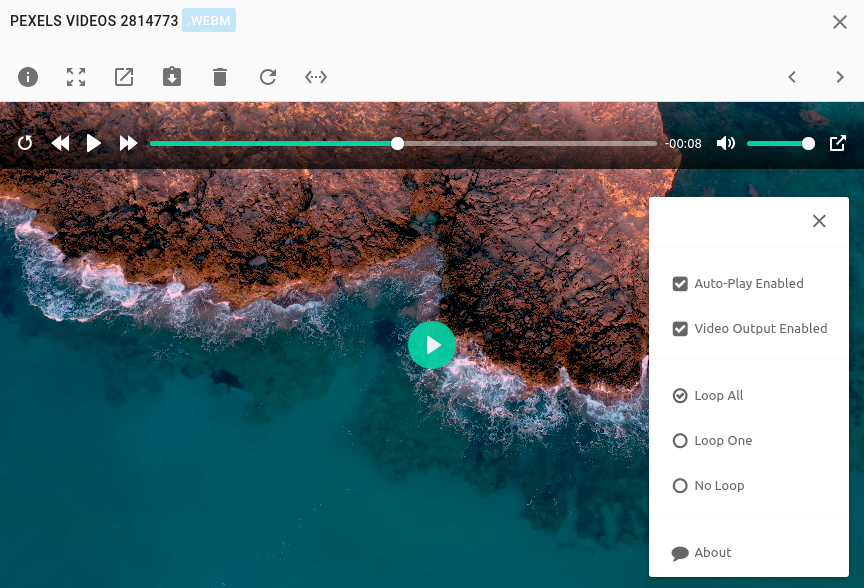
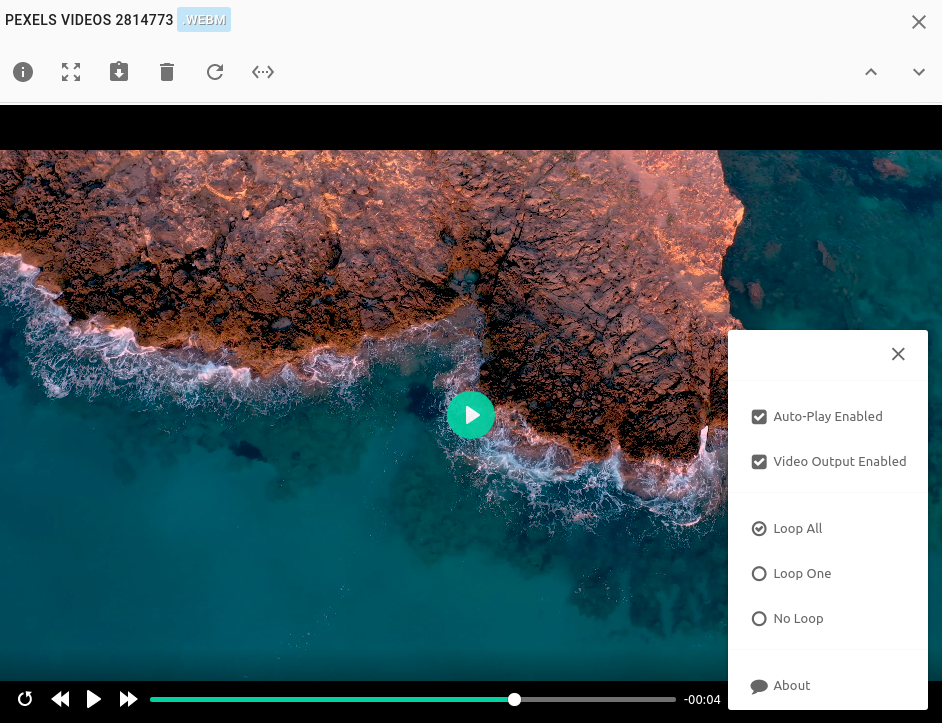
updating the docs and some images

diff --git a/sidebars.js b/sidebars.js
@@ -33,11 +33,6 @@ module.exports = {
         label: "Chrome Extension",
         href: "/installation#installing-the-chrome-browser-extension",
       },
-      // {
-      //   type: "link",
-      //   label: "TagSpaces Pro",
-      //   href: "/installation#installing-tagspaces-pro",
-      // },
       {
         type: "link",
         label: "Portable mode",
@@ -50,8 +45,8 @@ module.exports = {
       "ui/locations",
       {
         type: "link",
-        label: "S3 Locations",
-        href: "/ui/locations/#cloud-locations",
+        label: "Object storage Locations (S3)",
+        href: "/ui/locations/#object-storage-locations",
       },
       "ui/taglibrary",
       // "ui/userinterface#browsing-area)
@@ -99,12 +94,12 @@ module.exports = {
       {
         type: "link",
         label: "Custom timestamp tagging",
-        href: "/tagging/#custom-timestamp-tagging-",
+        href: "/tagging/#custom-timestamp-tagging",
       },
       {
         type: "link",
         label: "Geo-tagging",
-        href: "/tagging/#geo-tagging-",
+        href: "/tagging/#geo-tagging",
       },
     ],
     "Search Functionality": [
@@ -142,9 +137,8 @@ module.exports = {
       "perspectives/mapique",
       "perspectives/kanban",
       "perspectives/folderviz",
-      // "perspectives/treeviz",
     ],
-    "View and Print Files": [
+    "Preview and Print Files": [
       "viewing-files",
       {
         type: "link",
@@ -153,7 +147,7 @@ module.exports = {
       },
       {
         type: "link",
-        label: "File Printing",
+        label: "Print files",
         href: "/viewing-files/#printing-files",
       },
       "extensions/media-player",
@@ -186,11 +180,6 @@ module.exports = {
     "Share and Link Files": ["sharing", "linking"],
     Settings: [
       "ui/settings",
-      // {
-      //   type: "link",
-      //   label: "Access the settings",
-      //   href: "/ui/settings/",
-      // },
       {
         type: "link",
         label: "General",
@@ -214,11 +203,6 @@ module.exports = {
     ],
     "Advanced Functionalities": [
       "annotations",
-      // {
-      //   type: "link",
-      //   label: "File & Folder Descriptions",
-      //   href: "/annotations",
-      // },
       {
         type: "link",
         label: "Custom Folder Color",

diff --git a/docs/ui/locations.md b/docs/ui/locations.md
@@ -17,7 +17,7 @@ Clicking second time on a location name, will trigger the loading of the sub dir
 
 ![Location manager](/media/location-manager.png)
 
-The location with the cloud icon (6) in front of its name is located in the AWS S3 compatible cloud storage. See [cloud locations](#cloud-locations) for more details.
+The location with the cloud icon (6) in front of its name is located in the AWS S3 compatible cloud storage. See [object storage locations](#object-storage-locations) for more details.
 
 The location with the light green background color (4) is the **currently opened location**. The 3-dot button located on the most right part of every location in the location manager will open the **context menu** for this location. This menu contains the following menu entries:
 
@@ -62,11 +62,11 @@ The extended dialog will have in addition the following properties:
 - _Switch to manual index creation with persisted search index_ <ProFeature /> - disables the automatic indexing of a location on its opening. The application will try to open a previously created index located in a file _tsi.json_ from the _.ts_ folder of the location. This is useful on locations with many files, where the content does not change very often.
 - _Open this location in read-only mode_ <ProFeature /> - switches the interface of TagSpaces to read-only mode
 
-## Cloud Locations
+## Object Storage Locations
 
 <ProFeature />
 
-These location are pointing to AWS S3 compatible stores (also known as buckets) located in the Internet.
+With this feature TagSpaces Pro can support object storage offered by different Cloud providers as locations. So you can connect the so called buckets from [AWS S3](https://aws.amazon.com/s3/), [Wasabi](https://www.wasabi.com/) or [Minio](https://min.io/) infrastructure. By doing so you get a fully functional file organizer, browser and navigator for this bucket, directly in TagSpaces. You do not have to download or sync the files from there in order to preview, edit or annotate them.
 
 ![Edit properties of a cloud location](/media/edit-cloud-location-dialog.png)
 
@@ -83,10 +83,6 @@ In addition to the regular locations, the cloud locations have the following pro
 :::
 
 In our tutorial section you can find a [complete manual](/tutorials/s3-bucket-locations.md) on how to create a new AWS S3 bucket and connect it as location in TagSpaces.
-
-## Object storages as locations
-
-With this feature TagSpaces PRO is going into direction of supporting the Cloud as file storage. In general it enables you to creating a location pointing to a remote object storages or buckets on [AWS S3](https://aws.amazon.com/s3/), [DigitalOcean Spaces](https://www.digitalocean.com/products/spaces/) or [Minio](https://min.io/) infrastructure. By doing this you get a fully functional file organizer, browser and navigator for this bucket, directly in TagSpaces. You don't have to download separately and eventually to upload them back in order to preview, edit or annotate them.
 
 You can recognize object storage location by the cloud icon in front of their name, as seen in the next screenshot.
 
@@ -126,9 +122,9 @@ If your bucket contains many files and the initial opening with indexing takes a
     showCaption
   />
 
-## Advanced Features
+## Advanced Location Features
 
-### Monitor for changes in locations
+### Monitor for changes
 
 This features is useful, when you have locations placed on a network drive or pointing to a folder synced with for example Dropbox, where changes to these folders happens in background while TagSpaces is running. This can happen if you work collaboratively with someone on a network or your Dropbox syncs files from other devices. In such cases TagSpaces monitors the folder pointed by the location with all its sub-folders for changes, such as **file creations**, **deletions** or **renames** and reflects these changes in the user interface of the app.
 
@@ -170,13 +166,7 @@ In the content menu of every tag group in the PRO version, there is an entry cal
     showCaption
   />
 
-### Custom location IDs
-
-Work in progress
-
-### Export and Import location's configuration
-
-<ProFeature />
+### Export and import location configuration
 
 <VideoYT
 youtubeId="LmjUM1BS-wQ"
@@ -184,3 +174,7 @@ title="Using file and folder linking functionality in TagSpaces"
 posterUrl="/media/videoposters/import-export-locations.jpg"
 height={550}
 />
+
+### Custom location IDs
+
+Work in progress

diff --git a/docs/ui/userinterface.md b/docs/ui/userinterface.md
@@ -40,7 +40,7 @@ The file browsing area normally takes up he majority of the user interface. This
 In the top left corner of the browsing area is placed a button with a briefcase icon **(1)** which open a dropdown showing a list of all [locations](/ui/locations.md). From this dropdown you can quickly switch to another location.
 
 :::tip
-<ProFeature /> If you are currently using a cloud based location, the the icon of the button for changing the location **(1)** will be a cloud, in other cases the icon will be the briefcase.
+<ProFeature /> If you are currently using a cloud based location, the icon of the button for changing the location (1) will be a cloud, in other cases the icon will be the briefcase.
 :::
 
 The number above **(2)** shows the count of the files and folders in the current folder. If the file browsing area shows search results, then this number will represent the count of the found items.
@@ -51,7 +51,6 @@ The area above number **(3)** shows the name of the current folder, its parent f
 
 Clicking on the name of the current folder or on the three dot icon above **(4)** will open the context menu for the current directory, which contains the following menu items:
 
-- **Open Parent Directory** - Open the parent folder in the browsing area, only if the parent folder is located inside the current location
 - **Reload Directory** - Reloads the content of the current folder
 - **Rename Directory** - Opens the folder rename dialog
 - **Delete Directory** - Open a dialog where you can confirm the deletion of the folder
@@ -59,8 +58,12 @@ Clicking on the name of the current folder or on the three dot icon above **(4)*
 - **New Subdirectory** - Opens the folder create dialog, where you can enter the name of the new sub folder
 - **New File / Note** - Open the dialog for [creating new](/editing-files.md#creating-files) files / notes
 - **Add Existing File** - Opens a file choose where you can select a file from your local files system, which will be added to your current folder in TagSpaces.
-- **Extract Content** - Starts a data extraction process, where you can retrieve some additional meta information from the files in the current folder.
-- **Directory Properties** - Opens the folder properties area
+- **Import macOS tags** - This menu item is visible only on macOS, selecting it will start the attaching of native macOS tags as TagSpaces tags.
+- **Default Perspective** - will open the current folder in the default [Grid/List](/perspectives/grid) perspective
+- **Gallery Perspective** - will open the current folder in the [Gallery](/perspectives/gallery) perspective
+- **Mapique Perspective** - will open the current folder in the [Mapique](/perspectives/mapique) perspective
+- **Kanban Perspective** - will open the current folder in the [Kanban](/perspectives/kanban) perspective
+- **Directory Properties** - Opens the [properties](/ui/userinterface#folder-properties-area) of the current folder
 
 ## Preview area
 

diff --git a/docs/intro.md b/docs/intro.md
@@ -1,6 +1,6 @@
 ---
 slug: /
-title: TagSpaces Intro
+title: What is TagSpaces
 ---
 
 Welcome to the documentation of the TagSpaces products.
@@ -56,17 +56,19 @@ TagSpaces is an open source, cross-platform, no backend, no login, file manager,
 
 ## Videos
 
-The short introductory video below shows TagSpaces in action:
+This short introductory video shows TagSpaces in action:
 
-<iframe width="100%" height="500" src="https://www.youtube-nocookie.com/embed/KUO1zvavYMw?rel=0" frameBorder="0" allowFullScreen></iframe>
+<iframe width="100%" height="500" src="https://www.youtube-nocookie.com/embed/Xjwxq4c0RBQ?rel=0" frameBorder="0" allowFullScreen></iframe>
 
-Check out the [TagSpaces YouTube channel](https://www.youtube.com/channel/UCzfSaeg-7mpt96UI97zwbfQ) for more TagSpaces related videos.
+### Youtube channel
+
+We have [YouTube channel](https://www.youtube.com/channel/UCzfSaeg-7mpt96UI97zwbfQ) where publish videos related to the application.
 
 ## Technology Stack
 
-Frontend based on:
+Front-end of the application is based on:
 
-- JavaScript / HTML / CSS
+- JavaScript / Typescript / HTML / CSS
 - React / Redux / [Material UI](https://material-ui.com/)
 
 Native APIs e.g. for file access are based accordingly:
@@ -75,6 +77,8 @@ Native APIs e.g. for file access are based accordingly:
 - Mobile versions for Android based on [Cordova](https://cordova.apache.org/)
 - Web versions for managing files in object storages based on [AWS SDK for JavaScript](https://aws.amazon.com/sdk-for-javascript/)
 
+---
+
 :::caution
-This documentation is a <b>work in progress</b>.
+This documentation is a **work in progress**.
 :::

diff --git a/docs/editing-files.md b/docs/editing-files.md
@@ -1,6 +1,6 @@
 # Edit Files
 
-Besides opening and viewing files, TagSpaces can also edit specific file formats. Just like [File Browser Perspectives](browsing-files.md/#perspectives-overview), and [File Preview extensions](viewing-files.md/#file-previewing), the different types of **File Editors** are also **modular extensions**, making TagSpaces' file editing capabilities extendable. Currently three editor extensions ship bundled with the application:
+Besides opening and viewing files, TagSpaces can also edit specific file formats. Just like [File Browser Perspectives](browsing-files.md/#perspectives-overview), and [File Preview extensions](viewing-files.md/), the different types of **File Editors** are also **modular extensions**, making TagSpaces' file editing capabilities extendable. Currently three editor extensions ship bundled with the application:
 
 - [**HTML Editor**](/extensions/html-editor.md) - `HTML` files serve a specific purpose in TagSpaces. They are treated as RichText documents, that can not only be previewed, but visually edited in a full-featured **WYSIWYG editor**.
 

diff --git a/docs/tagging.md b/docs/tagging.md
@@ -167,6 +167,12 @@ Geo Tagging can be use to add geo coordinates as a tag to any kind of files. It 
 
 <!-- The geo tag is a special kind of smart tag, available in TaSpaces **PRO**, that allows tagging files with precise geolocation coordinates. When You drag the tag "geo" on a file, the **Edit tag** popup window with the Geo Location tab will open, showing a map from OpenStreetmap. You can drop a pin anywhere, and move it around, it automatically becomes a tag in the format of `latitude+longitude`, e.g. `47.2792290+18.9843750` This tag will then be applied to the file and treated as a geo-smarttag by TagSpaces -->
 
+<br />
+<br />
+In geo tagging dialog you can enter the latitude and longitude directly without the need of the map. To enable this you have to click on the advanced button in the dialog as shown in the following screenshot.
+
+![Enter latitude and longitude as geo tags](/media/geo-tagging-lat-lon.png)
+
 ### Editing smart tags
 
 <ProFeature />

diff --git a/docs/annotations.md b/docs/annotations.md
@@ -5,6 +5,7 @@ title: Annotating files and folders
 import { ProFeature, CenteredImage } from '@site/src/components/CommonBlocks';
 
 <ProFeature />
+
 In addition to the tagging, in the TagSpaces PRO you have the ability to annotate every file or folder with a description. This is useful in particular if you want to add some more textual content to given a file or folder. This description information is managed in the properties area of every entry, and can be opened by clicking on the i-button, marked with **(1)** on the following screenshot.
 
 <CenteredImage

diff --git a/docs/extensions/media-player.md b/docs/extensions/media-player.md
@@ -8,7 +8,7 @@ A TagSpaces extension allowing playing of audio and video files.
 - Fullscreen mode
 - This extension will trigger the opening of the next file in the current folder on finishing playback, allowing you for example to listen many audio files one after another like in a regular music player.
 
-![Screenshot of the viewerAudioVideo](/media/extensions/viewer-audiovideo-lead.png)
+![Screenshot of the media player](/media/extensions/viewer-audiovideo-lead.png)
 
 > The supported audio and video formats depend on the underlaying browser platform.
 

diff --git a/docs/dev/extension-development-guide.md b/docs/dev/extension-development-guide.md
@@ -2,6 +2,10 @@
 title: Extension development guide
 ---
 
+:::caution
+This guide is outdated, please use it with caution.
+:::
+
 This is an initial version of a guide intended to clarify the process of extension development for TagSpaces.
 
 ## Prerequisites

diff --git a/docs/viewing-files.md b/docs/viewing-files.md
@@ -2,8 +2,6 @@
 title: Preview Files
 ---
 
-## File preview
-
 The application supports previewing of many file types without the need of external viewer. It comes with the following viewer extensions:
 
 - [Media Player](extensions/media-player.md)
